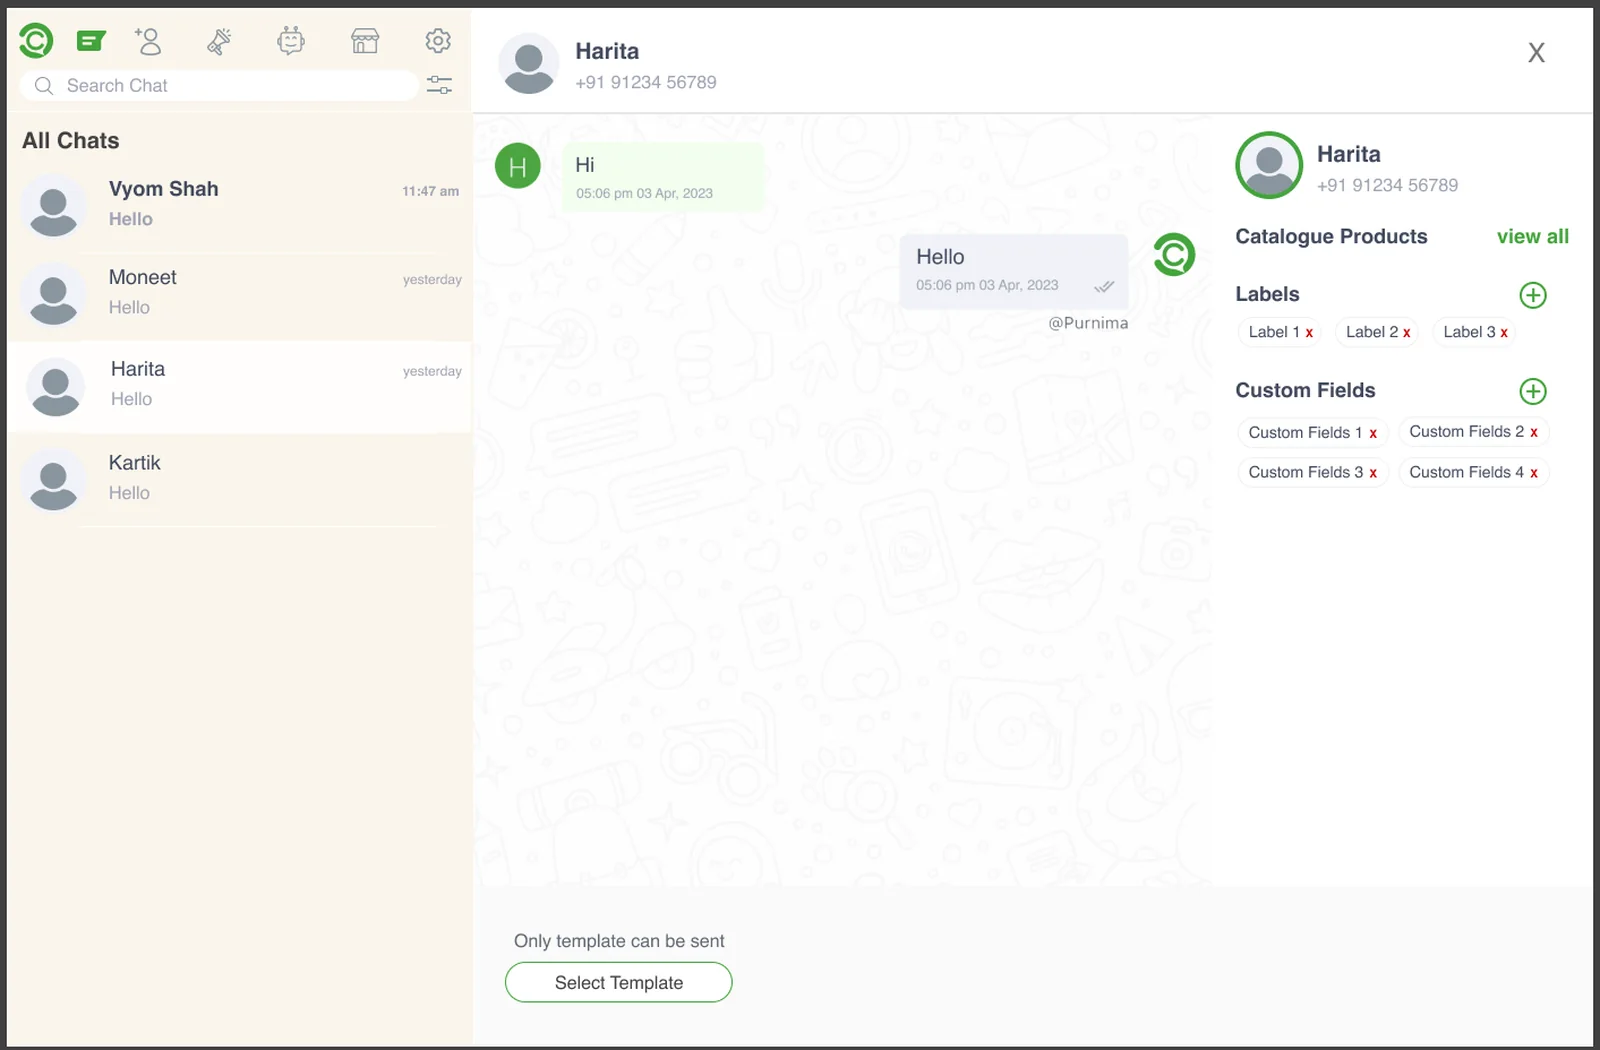
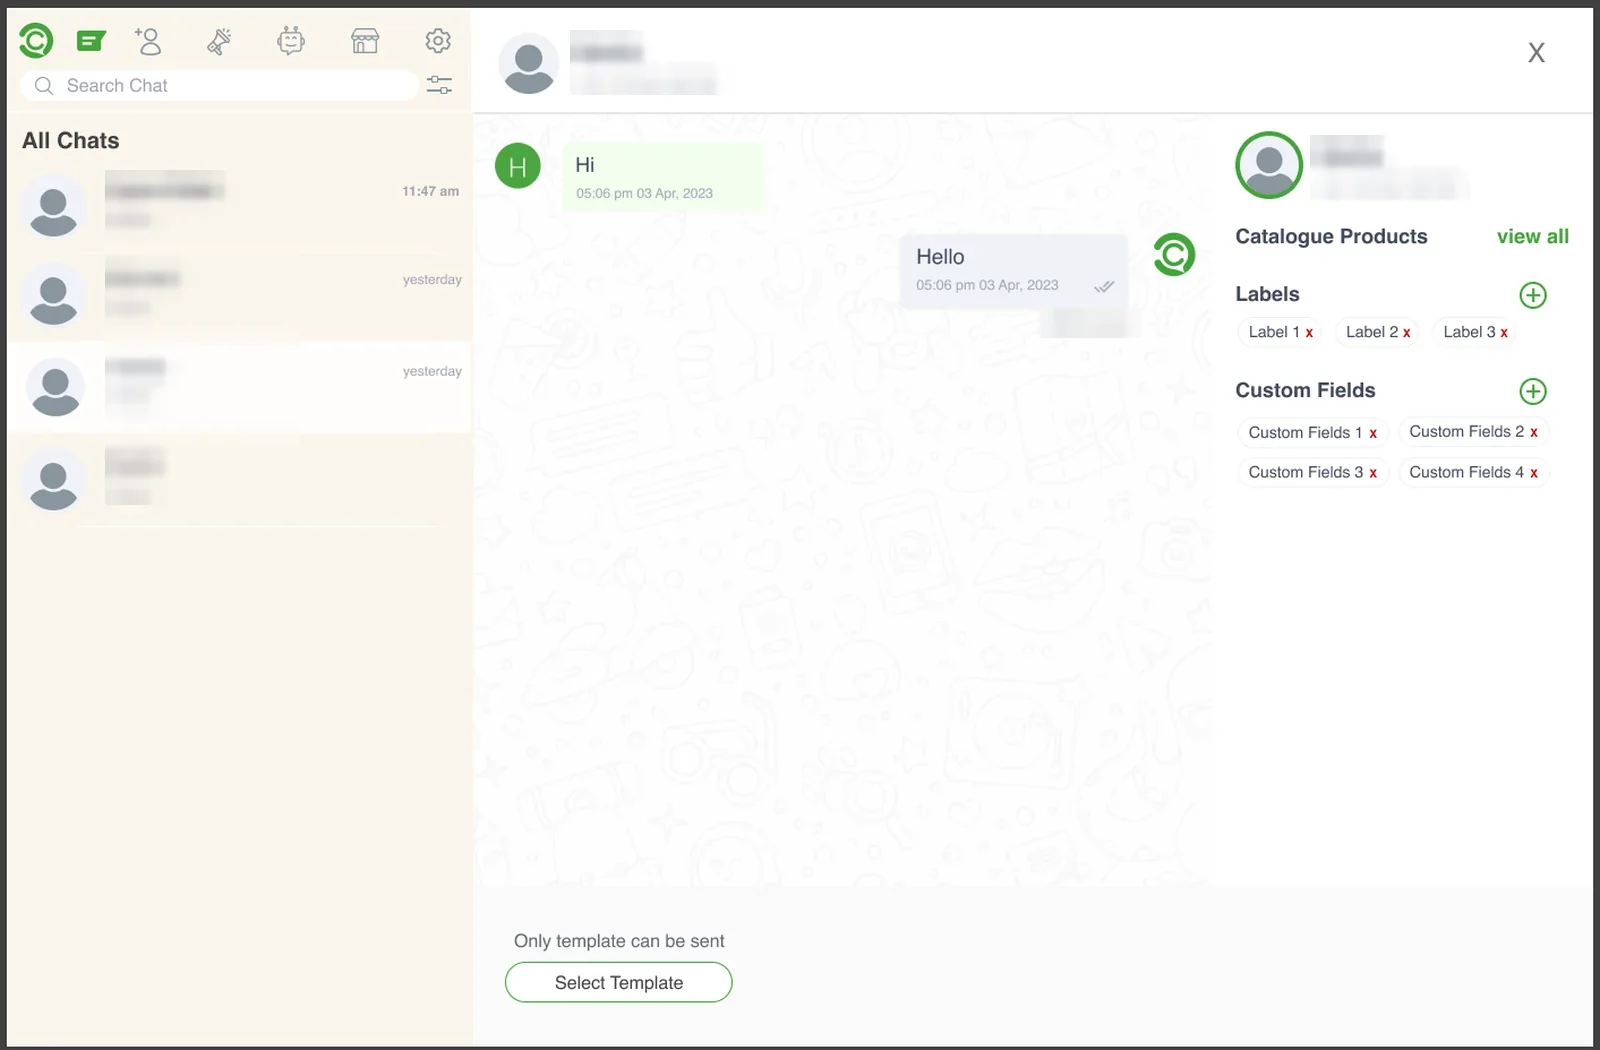
Hero: 'We clear the clutter' with the ELF film under it; drop background rule; redact Connectify personal data

diff --git a/src/pages/Index.jsx b/src/pages/Index.jsx
@@ -3,9 +3,12 @@ import ProjectCard from '../components/ProjectCard.jsx'
 import Marquee from '../components/Marquee.jsx'
 import Reveal, { RuleIn } from '../components/Reveal.jsx'
 import { Block, Container, SectionHeader } from '../components/Section.jsx'
-import { BRANDS, FAQ, FEATURED, INDUSTRIES, MARQUEE_TEXT, PILLARS, PROJECTS } from '../lib/site.js'
+import KineticPlayer from '../components/KineticPlayer.jsx'
+import { BRANDS, FAQ, FEATURED, HERO, INDUSTRIES, MARQUEE_TEXT, PILLARS, PROJECTS } from '../lib/site.js'
 
-const HEADLINE = ['A UI/UX and 3D', 'design studio.']
+const HERO_FILM = HERO.assets[0]
+
+const HEADLINE = ['We clear the clutter.', 'You get the results.']
 
 export default function IndexPage({ onNavigate, onOpenProject }) {
   return (
@@ -34,7 +37,7 @@ export default function IndexPage({ onNavigate, onOpenProject }) {
                   animate={{ opacity: 1, y: 0 }}
                   transition={{ duration: 0.75, delay: 0.26, ease: [0.2, 0, 0, 1] }}
                 >
-                  We design apps, platforms and websites, build products and places in 3D, and make the films and artwork that launch them. One team, so everything we make for a brand belongs together.
+                  A UI/UX and 3D design studio. We design apps, platforms and websites, build products and places in 3D, and make the films that launch them — one team, so everything belongs together.
                 </motion.span>
               </h1>
 
@@ -89,6 +92,69 @@ export default function IndexPage({ onNavigate, onOpenProject }) {
               </div>
             </div>
 
+          </div>
+        </Container>
+
+        {/* HERO PROJECT — in focus, 70% of the canvas */}
+        <Container className="mt-14 md:mt-20">
+          <div className="flex flex-col gap-8 lg:flex-row lg:items-start lg:gap-10">
+            <motion.div
+              className="w-full lg:w-[70%]"
+              initial={{ opacity: 0, y: 30 }}
+              animate={{ opacity: 1, y: 0 }}
+              transition={{ duration: 0.85, delay: 0.35, ease: [0.2, 0, 0, 1] }}
+            >
+              <KineticPlayer
+                src={HERO_FILM.src}
+                image={HERO_FILM.poster}
+                label={`FEATURED PROJECT // ${HERO.title}`}
+                dims={`${HERO_FILM.w} × ${HERO_FILM.h}`}
+                ratio={`${HERO_FILM.w} / ${HERO_FILM.h}`}
+                onClick={() => onOpenProject(HERO.slug)}
+              />
+            </motion.div>
+
+            <motion.div
+              className="w-full lg:w-[30%] lg:pt-7"
+              initial={{ opacity: 0 }}
+              animate={{ opacity: 1 }}
+              transition={{ duration: 0.7, delay: 0.6 }}
+            >
+              <div className="border-t border-hair pt-3">
+                <span className="label label-ink">FEATURED PROJECT</span>
+                <h2 className="mt-3 text-[clamp(22px,2.2vw,32px)] font-medium leading-[1.05] tracking-[-0.03em]">
+                  {HERO.title}
+                </h2>
+                <p className="mt-4 max-w-[38ch] text-[14px] leading-[1.55] lowercase text-muted md:text-[15px]">
+                  {HERO.summary}
+                </p>
+                <div className="mt-6 flex flex-col gap-[10px]">
+                  {[
+                    ['CLIENT', HERO.client],
+                    ['WHAT WE DID', 'CAMPAIGN FILM + CUT-DOWNS'],
+                    ['PIECES', String(HERO.assets.length).padStart(2, '0')],
+                    ['HOW TO WATCH', 'HOVER TO PREVIEW'],
+                  ].map(([k, v]) => (
+                    <div
+                      key={k}
+                      className="flex items-baseline justify-between gap-4 border-b border-hair-soft pb-[8px]"
+                    >
+                      <span className="label">{k}</span>
+                      <span className="tnum label label-ink">{v}</span>
+                    </div>
+                  ))}
+                </div>
+                <button
+                  type="button"
+                  onClick={() => onOpenProject(HERO.slug)}
+                  data-cursor="[OPEN PROJECT]"
+                  className="mt-6 w-full border px-5 py-[12px] text-[11px] font-medium uppercase tracking-[0.16em]"
+                  style={{ background: 'var(--c-ink)', color: 'var(--c-void)', borderColor: 'var(--c-ink)' }}
+                >
+                  [ WATCH THE FULL FILM ↗ ]
+                </button>
+              </div>
+            </motion.div>
           </div>
         </Container>
 

diff --git a/src/lib/site.js b/src/lib/site.js
@@ -508,14 +508,14 @@ const bySlug = Object.fromEntries(PROJECTS.map((p) => [p.slug, p]))
 /** The hero project — in focus at the top of the home page. */
 export const HERO = bySlug['elf-tamannaah']
 
-/** Selected work on the home page — UI/UX first, then 3D, then film. */
+/** Selected work under the ELF hero film — UI/UX first, then 3D, then film. */
 export const FEATURED = [
   bySlug.mswipe,
   bySlug['enquest-hrms'],
   bySlug['all-hub'],
   bySlug['real-estate-visualisation'],
   bySlug['product-films'],
-  bySlug['elf-tamannaah'],
+  bySlug['sony-prime-video'],
 ]
 
 /**

diff --git a/src/components/GridCanvas.jsx b/src/components/GridCanvas.jsx
@@ -18,11 +18,6 @@ export default function GridCanvas() {
         }}
       />
 
-      {/* horizon rule — a single fixed baseline through the viewport */}
-      <div
-        className="absolute inset-x-0 top-1/2 h-px"
-        style={{ background: 'var(--c-hair-soft)', opacity: 0.6 }}
-      />
     </div>
   )
 }

diff --git a/PROJECT_LOG.md b/PROJECT_LOG.md
@@ -192,6 +192,13 @@ button in `src/pages/Index.jsx`, which currently says *See the whole campaign*.
 
 ## Session history
 
+**29 Sep 2026 (latest)**
+11. Hero is back to "We clear the clutter. You get the results." with the ELF × Tamannaah
+    film directly under it (celebrity work first as a trust signal); selected work below it
+    stays UI/UX → 3D → film. Horizontal centre rule removed from the background (dots stay).
+    Connectify screens: real-looking names, emails and phone numbers pixelated (chat list,
+    headers, users/channels tables, mobile screens, cover).
+
 **29 Sep 2026 (later)**
 9. **Agency structure, priority UI/UX → 3D → film/motion/graphics everywhere**: buckets,
    project order (`PRIORITY` + `RANK` in site.js), services, tools, marquee, home.
